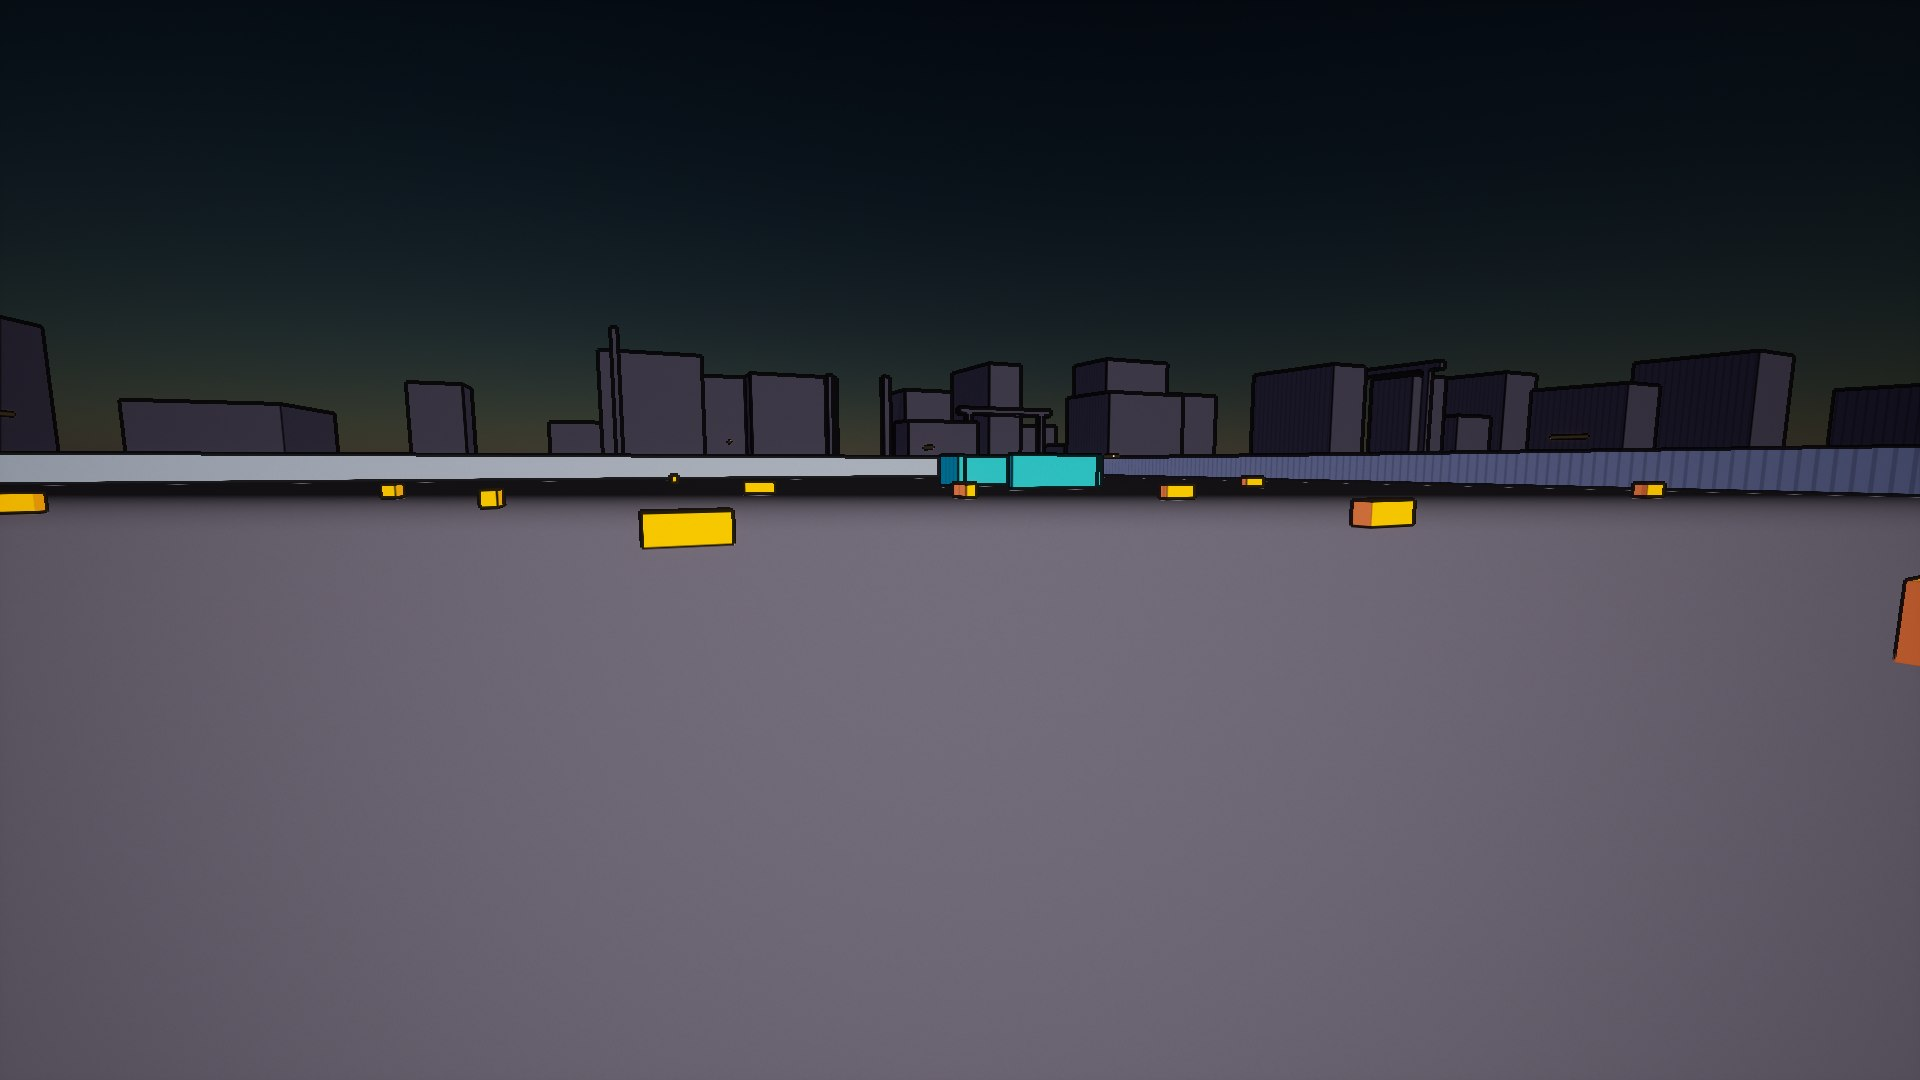
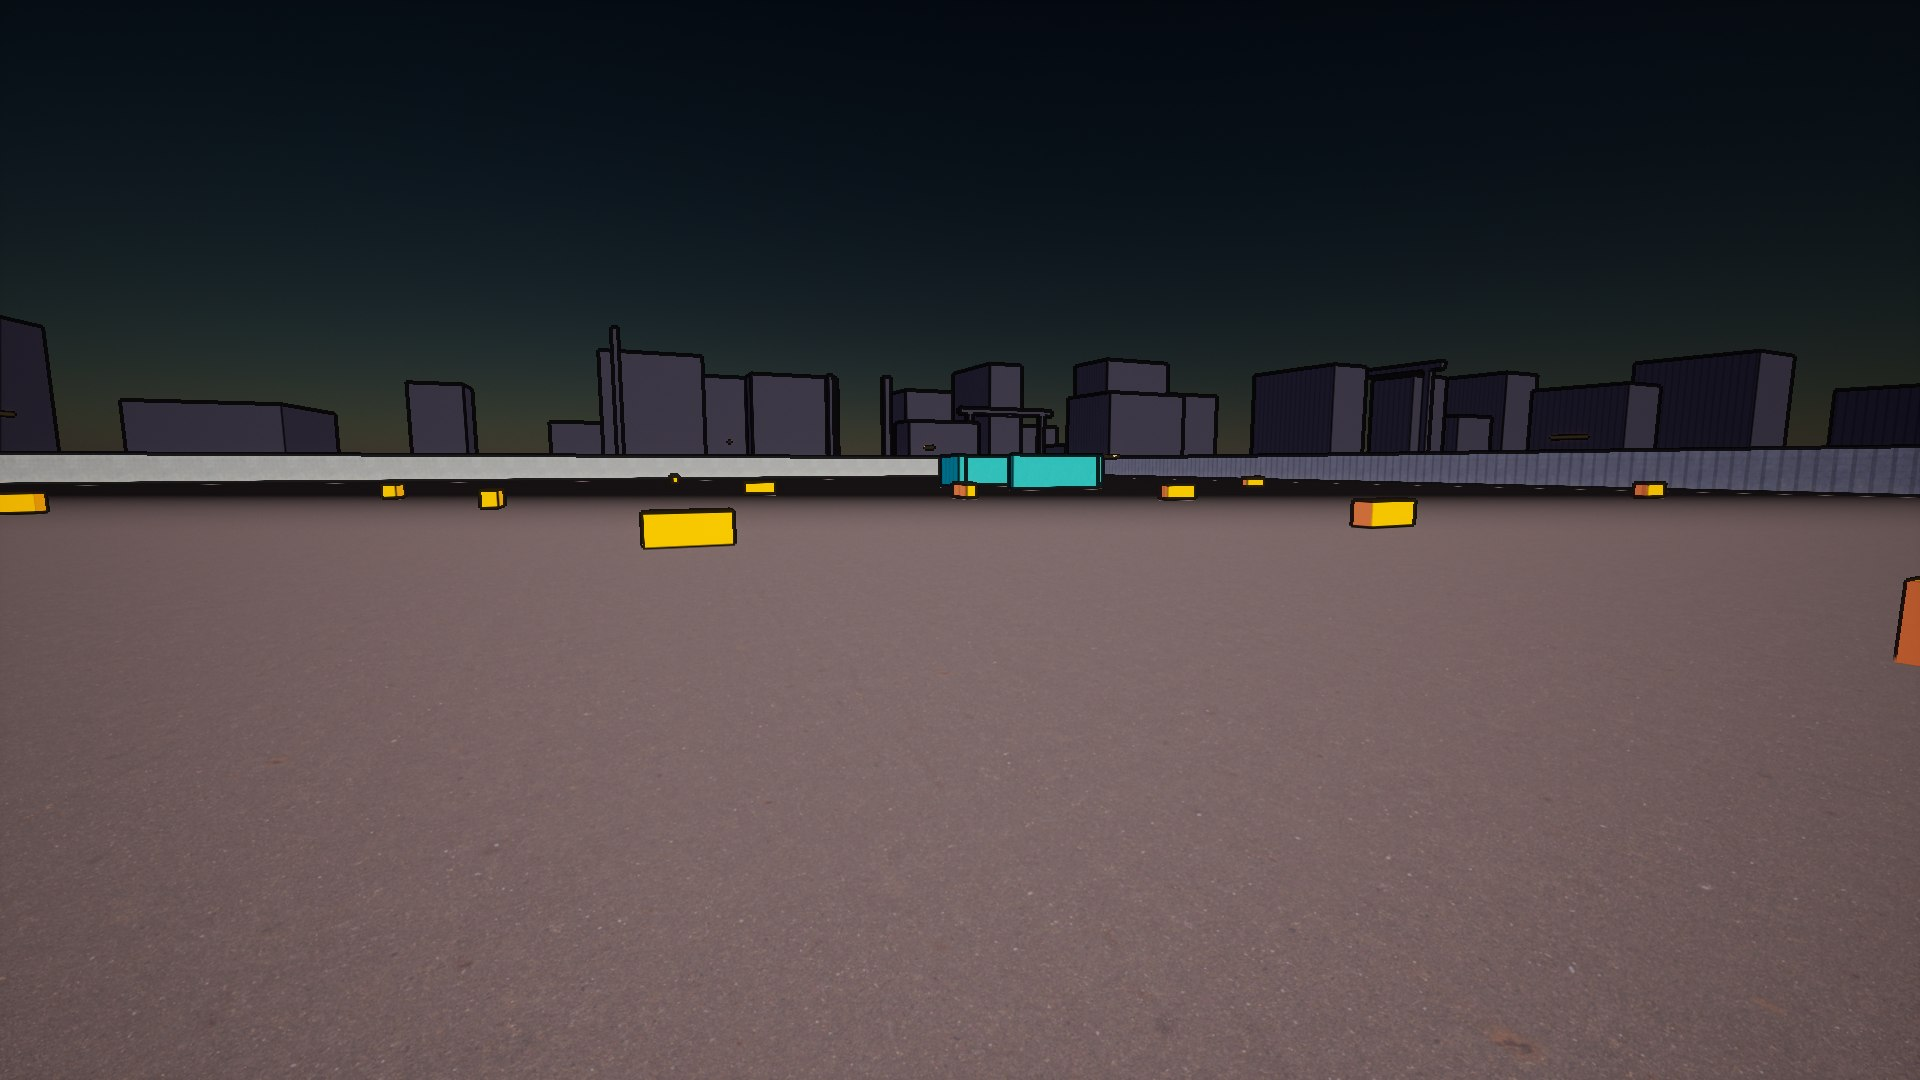
[Repo] Record the texture pass + Fab queue for the owner (handoff, dashboard, gallery)

Changed region(s): [[0.7812, 0.9472, 0.8125, 0.9778], [0.5, 0.4278, 0.5312, 0.4583]]

diff --git a/progress_data.js b/progress_data.js
@@ -3,7 +3,7 @@
 // en worden door Tools/update_progress.ps1 gegenereerd — daar blijf je vanaf.
 // Regels: percentages zijn eerlijk (liever te laag dan gejokt); geen HTML hier, alleen data.
 window.PROGRESS_DATA = {
-  bijgewerkt: "2026-07-22 21:50",
+  bijgewerkt: "2026-07-22 22:10",
   hero: { label: "Hele game", pct: 8 },
   playtestChip: "PIE-playtest door eigenaar: OPEN (gate-vraag 13.2)",
 
@@ -46,7 +46,7 @@ window.PROGRESS_DATA = {
         { naam: "Cel/toon-materiaal (banden + hatching, M_EclipseToon)", pct: 100, notitie: "Live geverifieerd; hatching leest nu als penseelstroken (25% duty, periode 120)." },
         { naam: "Ink-outline post-materiaal", pct: 85, notitie: "PP_EclipseInk LIVE bewezen: Sobel→Laplaciaan-fix (scherende vloer vloeide vol inkt); silhouet- + naadlijnen schoon." },
         { naam: "Belichting / mood", pct: 85, notitie: "SM6-pad live: volumetric smog + zon-schaduwen + skylight + film grain (15.5-revisie); lit-toon-migratie (echte Lumen-GI) is de volgende milestone." },
-        { naam: "Kleurenpalet & blok-dressing", pct: 50, notitie: "Lit/shade-paren met hue-shift per bloktype + Kessara-skyline-ring (code-built: hulks, schoorstenen, kraanportalen, natrium-raamstroken)." },
+        { naam: "Kleurenpalet & blok-dressing", pct: 60, notitie: "Palet + skyline-ring + EERSTE ECHTE TEXTURES (CC0 Poly Haven, world-aligned door de toon-pijplijn; gain genormaliseerd op gemeten lineair gemiddelde)." },
         { naam: "Gebouwen (echte kits)", pct: 10 },
         { naam: "Straten / props / decals", pct: 5 },
         { naam: "Bomen / vegetatie", pct: 0, notitie: "Eerste vegetatie Phase 3 (Sylvaris)." },
@@ -90,9 +90,16 @@ window.PROGRESS_DATA = {
     { file: "progress_media/shot_03.jpg", caption: "Cover-veld (review-camera 3)" },
     { file: "progress_media/shot_04.jpg", caption: "Overzicht district (review-camera 4)" }
   ],
-  screenshotNoot: "Sterke PC (GTX 1080 Ti, SM6, Scalability 3) — derde ronde vandaag: inktlijnen + hatch-tuning + Kessara-skyline (code-built) + SM6-smog/grain; camera 4 kadreert nu het hele district.",
+  screenshotNoot: "Sterke PC (GTX 1080 Ti, SM6) — texture-ronde: CC0-albedo's (asfalt/beton/metaalplaat/golfplaat) door de toon-pijplijn, exposure-neutraal genormaliseerd; skyline + inktlijnen + schemer-mood intact.",
 
   changelog: [
+    { datum: "Sessie 2026-07-22 (nacht, sterke PC — asset-pass gestart)", punten: [
+      "EERSTE ECHTE TEXTURES in de game (taak C, owner-akkoord): 4×2K CC0-diffuse van Poly Haven (asfalt, betonblok, golfplaat, metaalplaat) — gedownload via API, geïmporteerd via nieuw script Tools/import_polyhaven_textures.py, herkomst in Content/Art/Textures/SOURCES.md.",
+      "M_EclipseToon uitgebreid met world-aligned albedo-pad (dominante-as-projectie, default volledig neutraal); builder koppelt per palet-entry texture + schaal.",
+      "Exposure-les geleerd en gefixt: textures her-meterden de auto-exposure (schemer werd dag) — per texture het lineaire gemiddelde gemeten en gain = 1/gemiddelde gezet (klem op 2.5 tegen hotspot-krassen); de gebankte dusk-grade is terug.",
+      "Fab-route gedocumenteerd: wacht op éénmalige Epic-login van de eigenaar (Launcher nooit gestart op deze pc); CC0-spoor loopt ondertussen autonoom door.",
+      "Groene bar: build ✓, 31/31 ✓, validatie 0 ✓, catalog 19/19 ✓."
+    ]},
     { datum: "Sessie 2026-07-22 (avond, sterke PC — vervolg)", punten: [
       "Shot-rig gefixt: pawn in flying-mode tijdens de rig — overview-camera 4 kadreert nu het hele district (viel eerst 2 s naar de grond vóór elke capture).",
       "Hatch-tuning: 25% duty + periode 120 — schaduw-arcering leest als penseelstroken, niet meer als golfplaat.",

diff --git a/HANDOFF.md b/HANDOFF.md
@@ -150,7 +150,11 @@ The clean mechanism is **git**. The bible + code are already **one repo** (§2),
 
 **Vervolg diezelfde avond (alles groen + gepusht):** (1) shot-rig gefixt — pawn vliegt tijdens de rig, camera 4 kadreert nu het hele district; (2) hatch-tuning — arcering leest als penseelstroken (25% duty, periode 120); (3) SM6-fidelitypad in de builder, feature-level-gated zodat de SM5-laptop identiek blijft: volumetric smog, zon-schaduwen (lichtschachten door de silhouetten), realtime skylight, film grain 0.07 + bloom 0.45 (15.5-revisie); (4) **Kessara-skyline** (03.3) als code-built placeholder: deterministische ring (seed 503) buiten de perimeter — 56 fabriekshulks, 18 schoorstenen, 12 kraanportalen, natrium-oranje raamstroken; het district staat nu visueel in een stad, zonder één nav/missie/test-raakvlak.
 
-**Bekende volgende zwakste punten (15.8-lijst voor de volgende pass):** (1) de voorgrond-vloer is een groot leeg vlak — straat-dressing (decals/markering/klein grut) of donkerder gradiënt; (2) glow-raamstroken zijn schaars zichtbaar vanaf de grond — dichtheid/plaatsing itereren; (3) de **lit-toon-migratie** (banden uit echt N·L + VSM-schaduw + software-Lumen-GI op lit district-materiaal) — dat is de echte 15.5-revisie-milestone; SSAO wordt dan pas zinvol (no-op op unlit emissive); (4) particles (vonken/as/embers) per de revisie.
+**Nog later die nacht — asset-pass gestart (taak C, owner gaf blanket-akkoord):** eerste echte textures in de game via het autonome CC0-spoor: 4×2K diffuse van Poly Haven (asfalt/betonblok/golfplaat/metaalplaat; herkomst + licentie in `Eclipse/Content/Art/Textures/SOURCES.md`, import via `Tools/import_polyhaven_textures.py`). `M_EclipseToon` heeft nu een world-aligned albedo-pad (default neutraal); de builder koppelt per palet-entry texture/schaal/gain/mix. **Kalibratieles:** texturen her-meterden de auto-exposure (schemer→dag); opgelost door per texture het lineaire gemiddelde te meten en gain = 1/gemiddelde te zetten (shader klemt op 2.5) — de dusk-grade is exposure-invariant onder texturing. Geverifieerd met shotronde; groene bar opnieuw volledig groen.
+
+**FAB-WACHTRIJ (voor de eigenaar, ~10 min):** Epic Games Launcher is op deze pc nog nooit gestart/ingelogd. Stappen: (1) Launcher starten → inloggen met het Epic-account (2FA bij de hand); (2) in de browser op fab.com met hetzelfde account inloggen; (3) melden — dan volgt een concrete shortlist (industriële modulaire kit, straatprops, Paragon-characters) waarop alleen "Add to library" + licentie-akkoord geklikt hoeft te worden; import + toon-restyle gebeurt daarna autonoom. Ook nuttig: ElevenLabs-key scopes Music/SFX aanzetten voor taak D-liveruns (TTS werkt al).
+
+**Bekende volgende zwakste punten (15.8-lijst voor de volgende pass):** (1) Dominion-post kleurt warmer dan het gelockte zalm-oxide — TexMix/kleur bijstellen; (2) straat-dressing op de lege voorgrond (markeringen/decals als no-collision-dressing); (3) glow-raamstroken schaars zichtbaar vanaf de grond; (4) de **lit-toon-migratie** (echt N·L + VSM + software-Lumen-GI; dan wordt SSAO zinvol); (5) particles (vonken/as/embers).
 
 **Owner-afspraken die blijven gelden (elke sessie):** geen installaties/downloads/acceptatie-prompts zonder expliciet akkoord vooraf (eerst uitleggen waarvoor); bouwen met `-NoUba`; PROGRESS.html nooit bewerken (data in `progress_data.js`; `progress_auto.js` is van de watcher). `gh` is hier NIET geïnstalleerd — push werkt via de vault-token in Windows Credential Manager (username gepind in repo-config).
 
